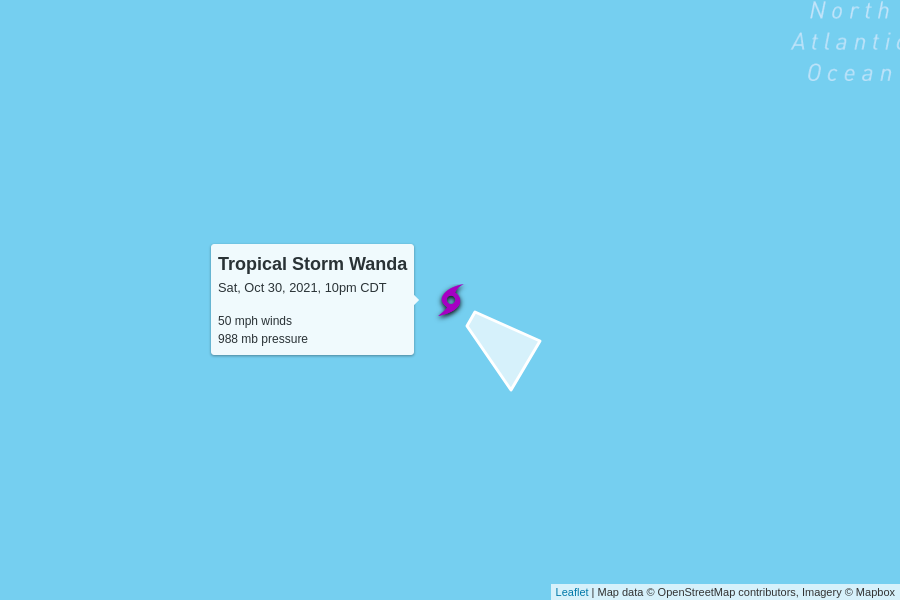
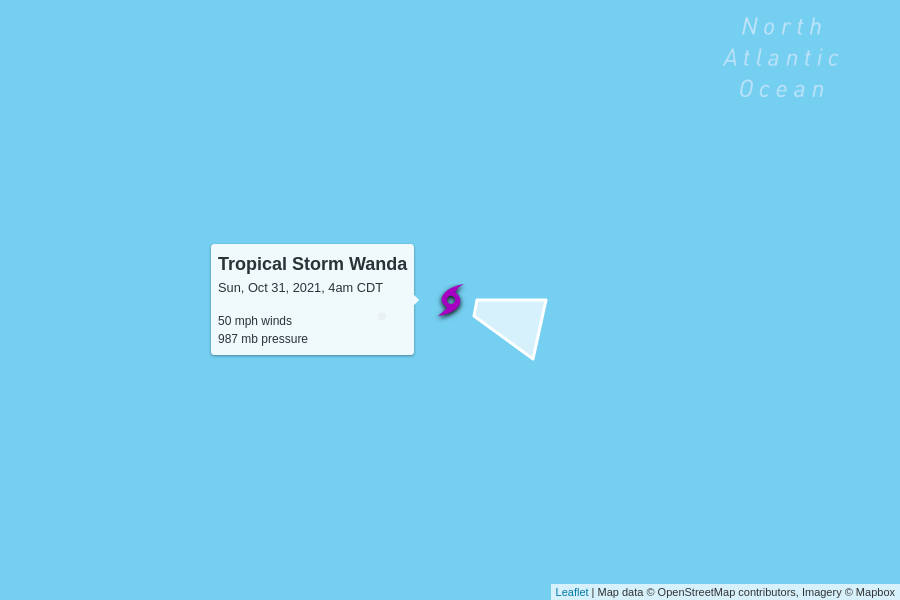
automatic update

Changed region(s): [[0.8089, 0.0, 1.0, 0.18], [0.4978, 0.48, 0.6222, 0.66], [0.2489, 0.45, 0.4356, 0.51]]

diff --git a/docs/index.html b/docs/index.html
@@ -100,7 +100,7 @@
         <td colspan="6" class="storm category-0" >
           <h2>
             Tropical Storm Wanda
-            <p class="updated">last updated <span data-time>2021-10-31T03:00:00.000Z</span></p>
+            <p class="updated">last updated <span data-time>2021-10-31T09:00:00.000Z</span></p>
           </h2>
         </td>
       </tr>
@@ -116,11 +116,11 @@
       <tr>
         <td class="spacer"></td>
         <td>50 mph</td>
-        <td>988 mb</td>
+        <td>987 mb</td>
         <td>
-          21 mph to the southeast
+          16 mph to the east-southeast
           <br/>
-          <span style="display: inline-block; font-size: 1.5em; transform: rotate(125deg);">↑</span>
+          <span style="display: inline-block; font-size: 1.5em; transform: rotate(105deg);">↑</span>
         </td>
         <td><a href="https://raw.githubusercontent.com/mgwalker/atlantic-hurricanes/main/data/csv/AL212021.csv">AL212021.csv</a></td>
         <td><a href="https://www.nhc.noaa.gov/archive/2021/WANDA.shtml?">NHC advisories</a></td>
